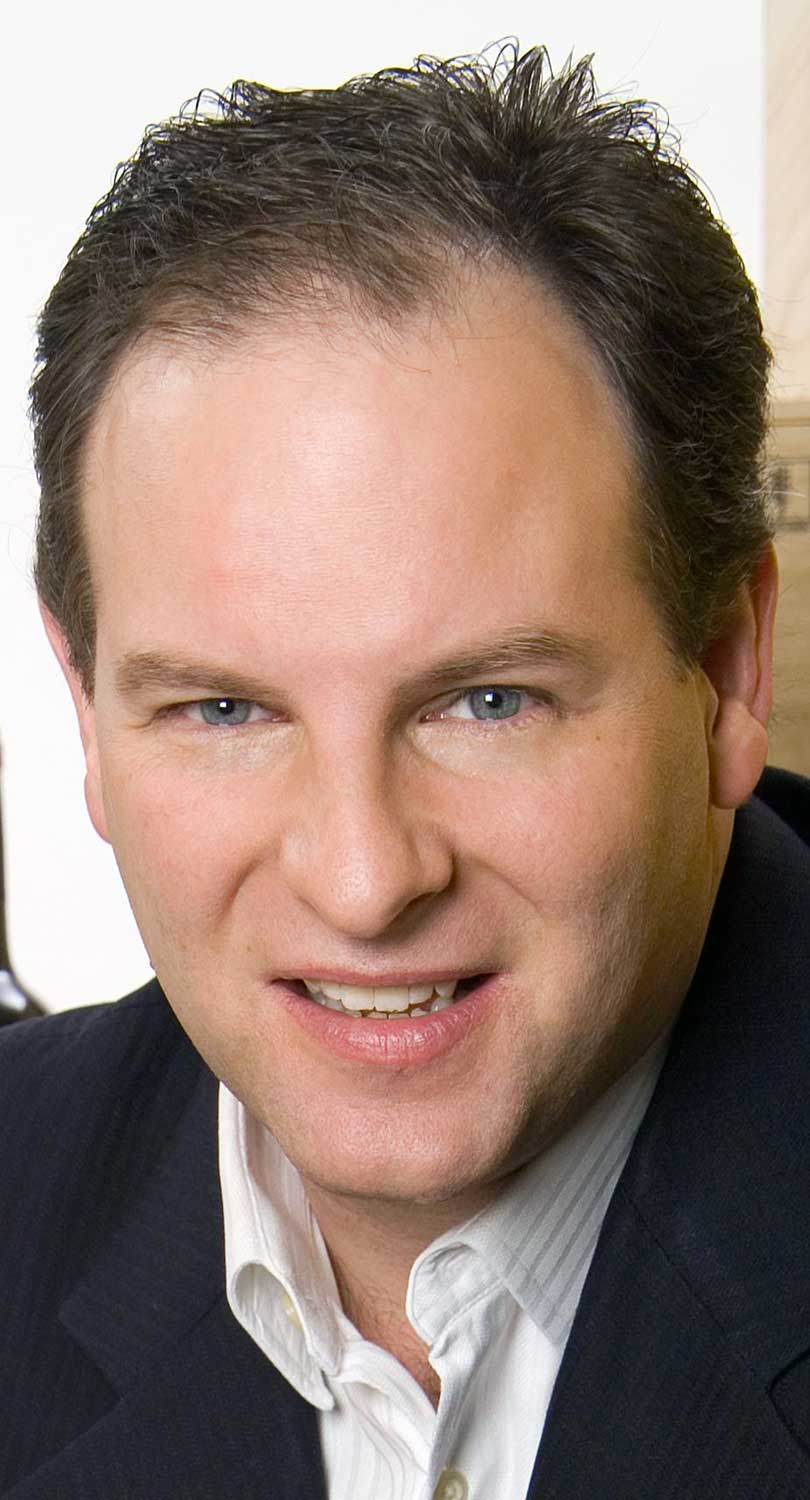
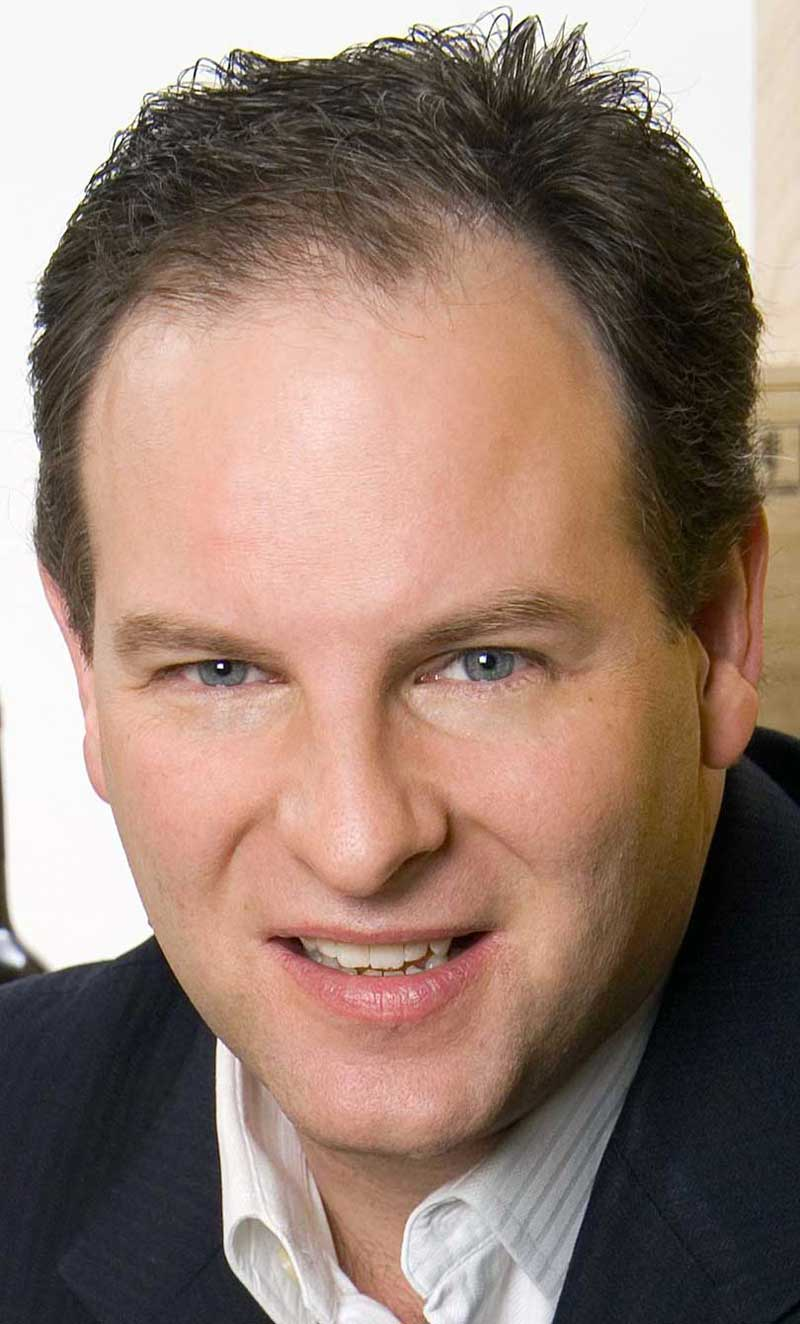
about us bios content

diff --git a/sandbox/about-us.html b/sandbox/about-us.html
@@ -96,7 +96,7 @@
         <div class="medium-3 large-3 columns">
           <img class="bio__image" src="img/about-us/robert-houde.jpg" alt="Robert Houde" />
         </div>
-        <div class="medium-8 large-7 columns">
+        <div class="medium-9 large-9 columns">
           <p>
             Robert Houde has been in the wine and food business for over twenty-five years.  He began his fine dining restaurant career as a server at the then acclaimed Lela B's restaurant in the Crockett Hotel in San Antonio, Texas, in the Fall of 1987.  After four years with <em>The Crockett</em>, Robert spent four years with the <em>Fairmont Hotel</em> in Chicago, Illinois, and one year with classic French restaurant <em>Chez Ardid</em> in San Antonio, Texas.
           </p>
@@ -110,8 +110,6 @@
             In March of 2009, Robert, along with partner Mark Hutchens, launched Robert Houde Wines, LLC, an Illinois-based importer and distributor specializing in artisanal European wines.  The company began with 30 small estates from Italy, and now represents over 180 fine wine estates, including the Italian portfolio of Marc de Grazia Selections, the Austrian, German and Grower Champagne portfolio of Terry Theise Estate Selections, the French and Spanish portfolio of Europvin-Christopher Cannan Selections, and several Robert Houde Wines direct imports.
           </p>
         </div>
-        <div class="medium-1 large-2 columns">
-        </div>
       </section>
 
       <section class="bio bio--mark">
@@ -122,15 +120,13 @@
         <div class="medium-3 large-3 columns">
           <img class="bio__image" src="img/about-us/mark-hutchens.jpg" alt="Mark Hutchens" />
         </div>
-        <div class="medium-8 large-7 columns">
+        <div class="medium-9 large-9 columns">
           <p>
             Mark Hutchens has worked in nearly all aspects of the wine business beginning in 1989, before he was of legal drinking age. Working his way up from stock boy to retail manager and eventually into distribution, Mark finally ended up in New York as National Sales Manager for Michael Skurnik Wines. His most formative experience came under the mentorship of Terry Theise, with whom Mark spent months each year at origin during his tenure, and continued to represent the wines in different positions around the US before co-founding Robert Houde Wines in 2009.
           </p>
           <p>
             Although Mark is still considered a specialist in German, Austrian and Champagne wines, he is equally informed and engaged in the wines of Italy, France and Spain. Mark values distinction in wine above all else and considers a wines’ strong identity its most important measure of quality. He shares in all the responsibilities at Robert Houde Wines, contributing to the sourcing of the portfolio and managing key accounts in the Chicago area.
           </p>
-        </div>
-        <div class="medium-1 large-2 columns">
         </div>
         </div>
       </section>

diff --git a/sandbox/css/robert-houde-wines.css b/sandbox/css/robert-houde-wines.css
@@ -58,6 +58,7 @@ h1, h2 {
 
 p {
   font-size: 1.25em;
+  /*margin: 0 2rem 2rem 2rem;*/
 }
 
 .footer__copy {
@@ -385,6 +386,11 @@ p {
   }
 
   /* Typography */
+
+  p {
+    font-size: 1.2rem;
+    margin: .5rem;
+  }
 
   .logo__text {
     margin-top: -0.2em;
